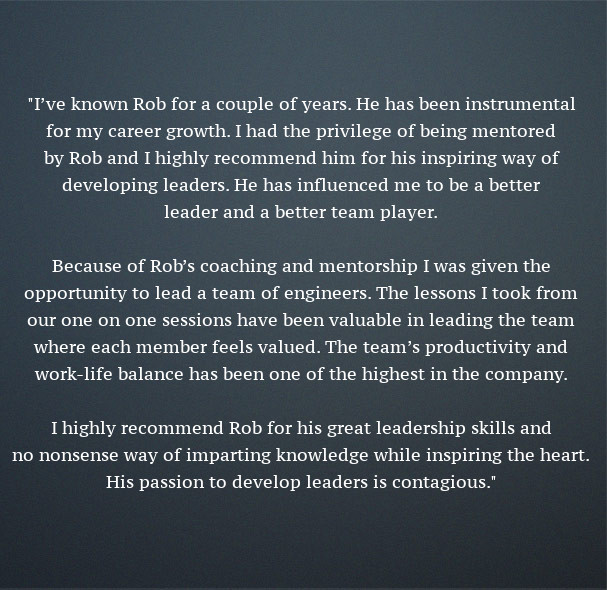
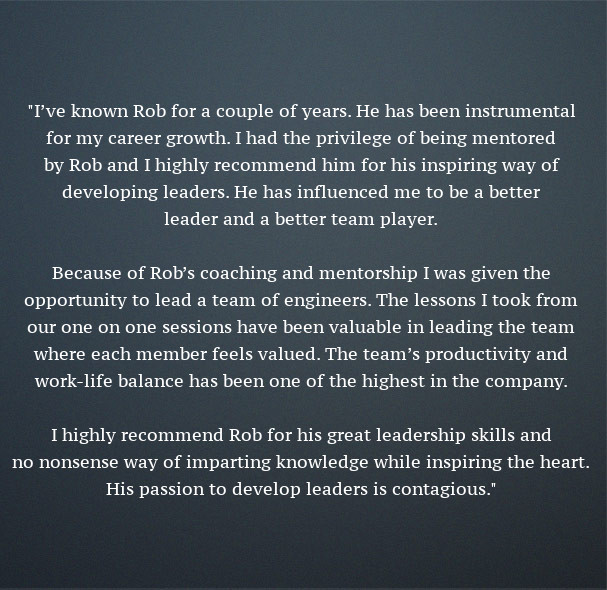
added new reference

Changed region(s): [[0.0297, 0.4271, 0.9489, 0.6712], [0.0593, 0.1525, 0.9489, 0.3966], [0.0, 0.7017, 0.9786, 0.8542]]

diff --git a/index.html b/index.html
@@ -86,7 +86,6 @@
 					<header>
 						<h2>Reviews</h2>
 					</header>
-
 					<!-- Gallery  -->
 						<div class="gallery">
 							<article class="from-left">
@@ -96,11 +95,10 @@
 							</article>
 							<article class="from-right">
 								<div class="zoom">
-									<a href="images/fulls/02.jpg" class="image fit"><img src="images/thumbs/02.jpg" title="Kristi Rigg" alt="" /></a>
+									<a href="images/fulls/ref2.jpg" class="image fit"><img src="images/thumbs/ref2.jpg" title="Kristi Rigg" alt="" /></a>
 								</div>
 							</article>
 						</div>
-
 				</div>
 			</section>
 
